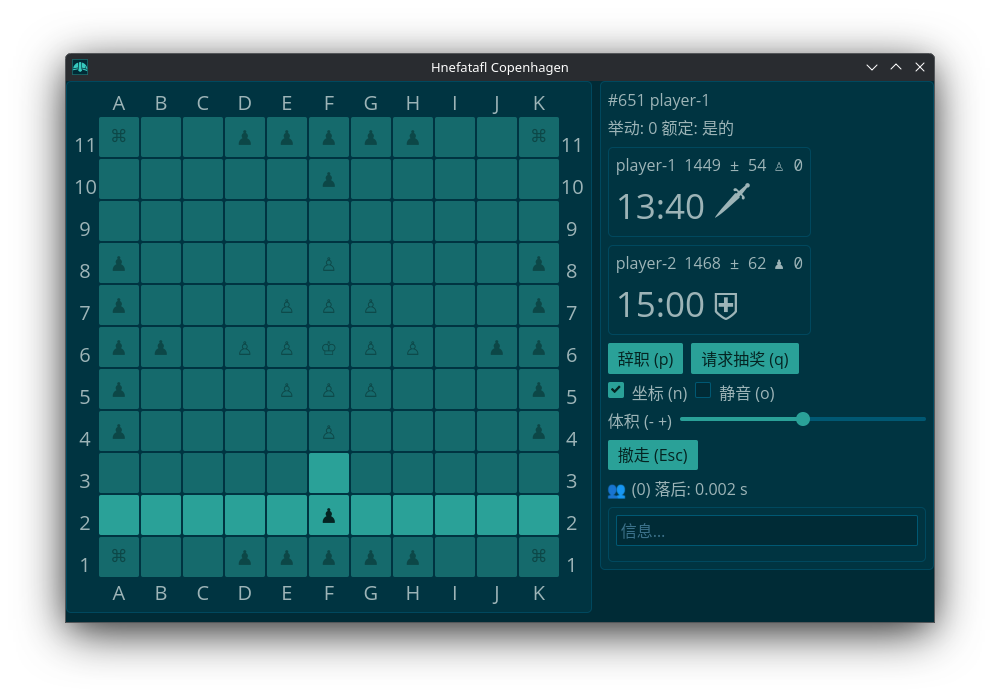
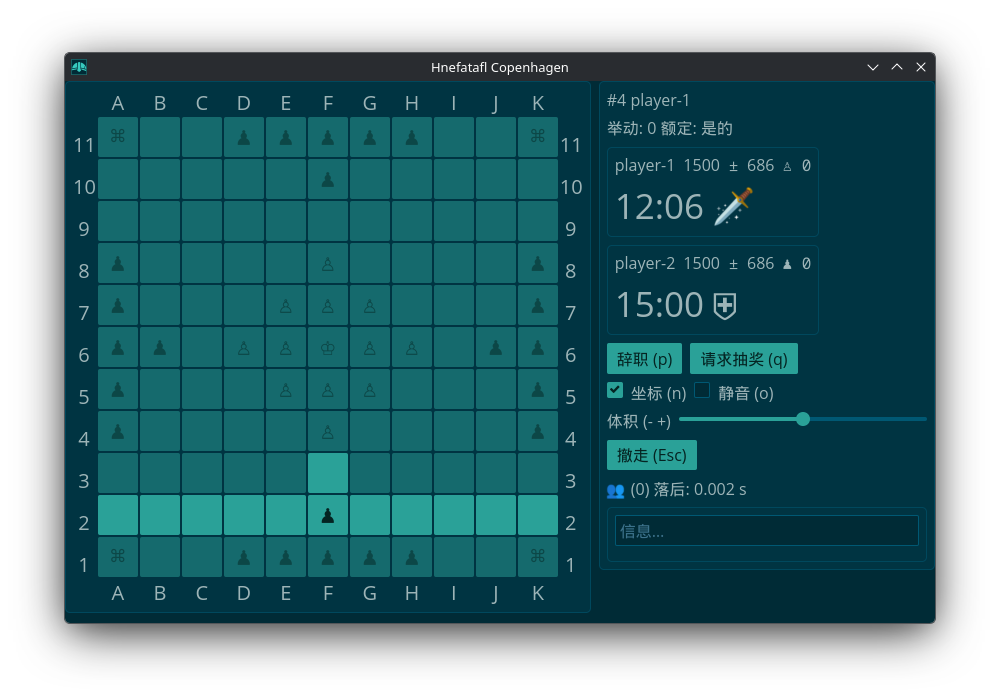
Update the flathub package.

diff --git a/src/bin/hnefatafl-client/main.rs b/src/bin/hnefatafl-client/main.rs
@@ -3438,10 +3438,9 @@ impl<'a> Client {
             buttons = buttons.push(buttons_row);
         }
 
-        let game_id = t!("ID");
         let game_ids = column![
-            text(game_id.to_string()),
-            text("-".repeat(game_id.chars().count())).font(Font::MONOSPACE),
+            text('#'.to_string()),
+            text('-'.to_string()).font(Font::MONOSPACE),
             game_ids
         ]
         .padding(PADDING);

diff --git a/src/server_game.rs b/src/server_game.rs
@@ -74,8 +74,7 @@ impl fmt::Display for ArchivedGame {
     fn fmt(&self, f: &mut fmt::Formatter<'_>) -> fmt::Result {
         writeln!(
             f,
-            "{}: {}, {}: {} {}, {}: {} {}, {}: {}",
-            t!("ID"),
+            "# {}: {}: {} {}, {}: {} {}, {}: {}",
             self.id,
             t!("Attacker"),
             self.attacker,

diff --git a/CHANGELOG.md b/CHANGELOG.md
@@ -763,8 +763,8 @@ and this project adheres to [Semantic Versioning](https://semver.org/spec/v2.0.0
 - hnefatafl-client: Make users and games scrollable.
 - Make all the features dependencies.
 
-[unreleased]: https://codeberg.org/dcampbell/hnefatafl/compare/v5.7.0-2...main
-[5.7.0]: https://codeberg.org/dcampbell/hnefatafl/compare/v5.6.1-1...v5.7.0-2
+[unreleased]: https://codeberg.org/dcampbell/hnefatafl/compare/v5.7.0-3...main
+[5.7.0]: https://codeberg.org/dcampbell/hnefatafl/compare/v5.6.1-1...v5.7.0-3
 [5.6.1]: https://codeberg.org/dcampbell/hnefatafl/compare/v5.5.1-1...v5.6.1-1
 [5.5.1]: https://github.com/dcampbell24/hnefatafl/compare/v5.4.0-1...v5.5.0-1
 [5.4.0]: https://github.com/dcampbell24/hnefatafl/compare/v5.3.1-1...v5.4.0-1
